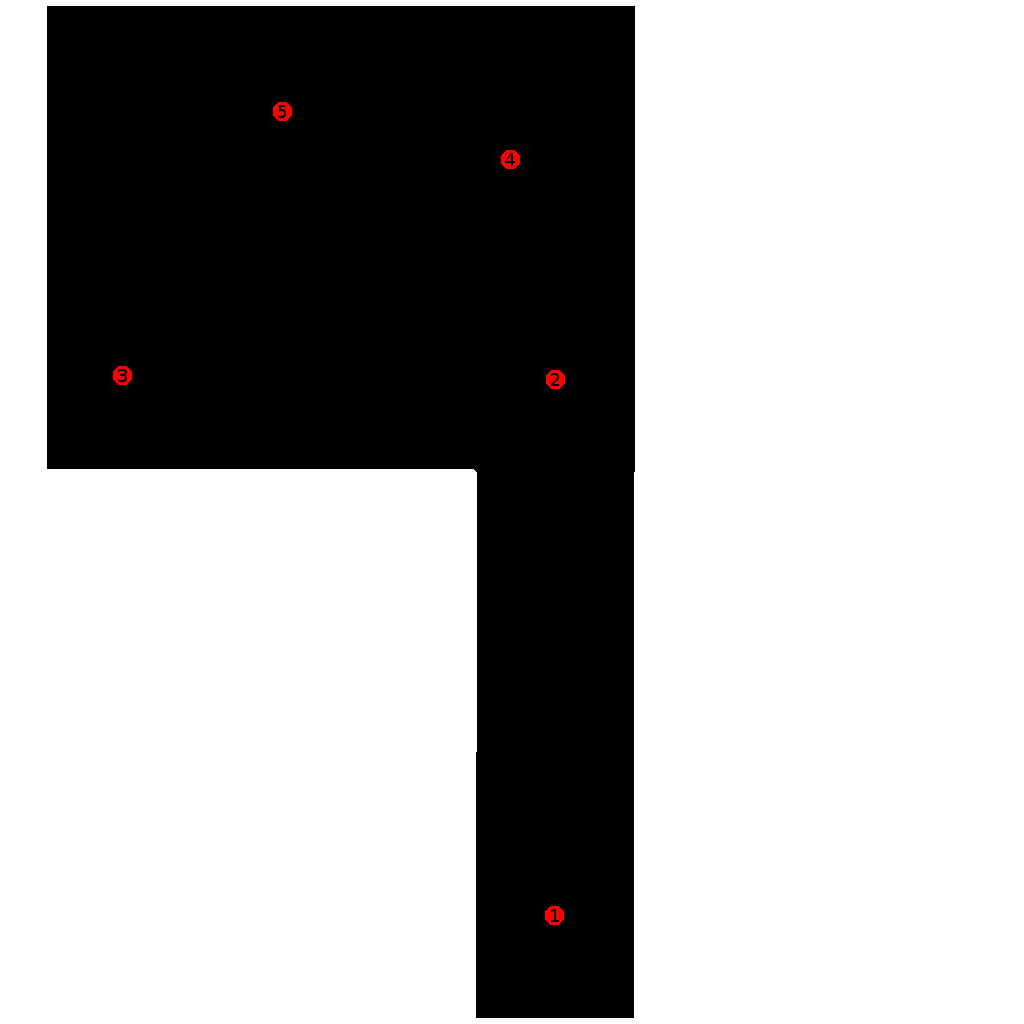
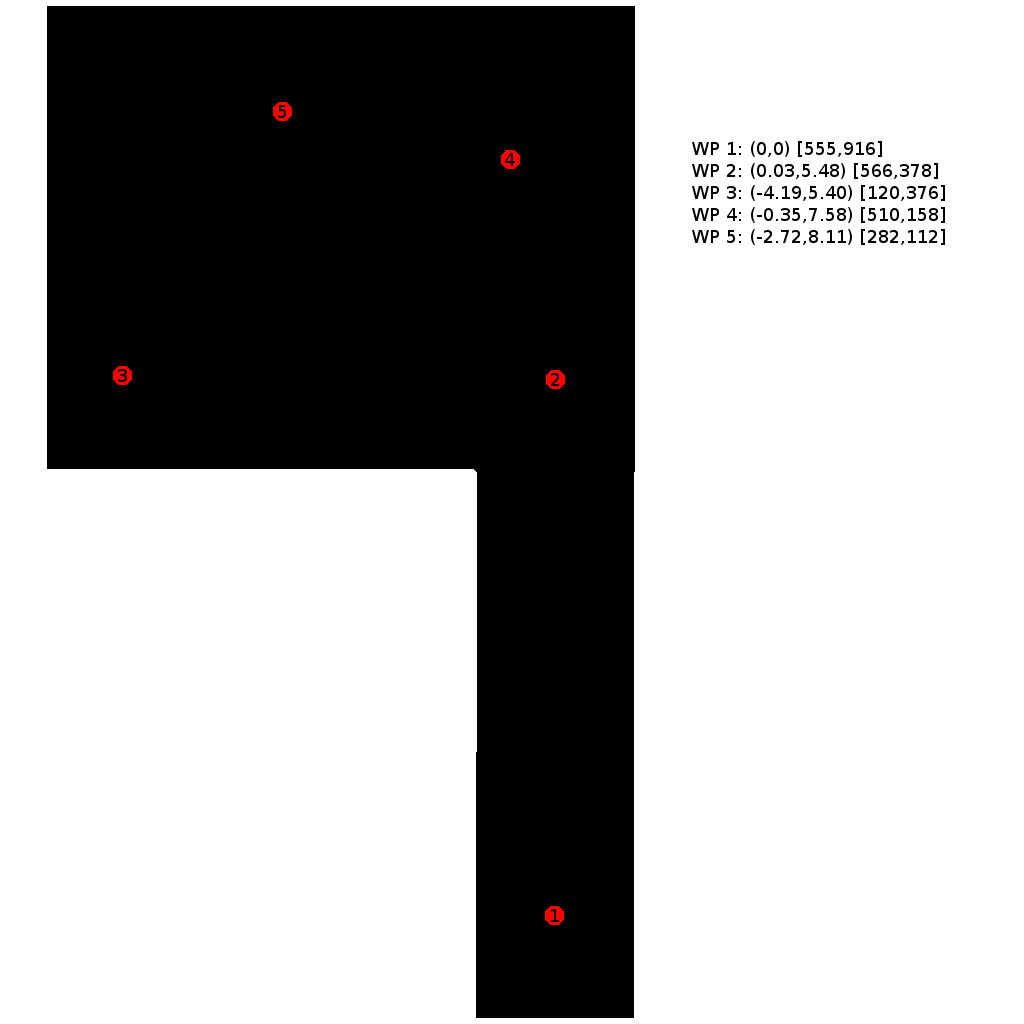
added class-specific log level examples in log4j properties, fixed a bug with waypoint angle generation, created new bot using bob's code that wanders around lab waypoint map, added info to lab map
git-svn-id: https://soar.googlecode.com/svn/trunk@10003 915bf4ee-6d5f-11de-9cf4-4bf9f06b8206

Changed region(s): [[0.6562, 0.125, 0.9375, 0.25]]

diff --git a/soar-robotics/sps/src/org/msoar/sps/control/io/SplinterInput.java b/soar-robotics/sps/src/org/msoar/sps/control/io/SplinterInput.java
@@ -2,34 +2,56 @@ package org.msoar.sps.control.io;
 
 import java.util.Arrays;
 
+import org.apache.log4j.Logger;
+
 import jmat.MathUtil;
 
 import lcmtypes.differential_drive_command_t;
 
 class SplinterInput {
+	private static Logger logger = Logger.getLogger(SplinterInput.class);
+
 	private double[] throttle = { 0, 0 };
 	private double targetYaw = 0;
 	private double targetYawTolerance = 0;
 	private boolean targetYawEnabled = false;
 
+	public String toString() {
+		StringBuilder sb = new StringBuilder();
+		if (targetYawEnabled) {
+			sb.append("--> ");
+			sb.append(targetYaw);
+			sb.append(" (");
+			sb.append(targetYawTolerance);
+			sb.append(") ");
+		}
+		sb.append(Arrays.toString(throttle));
+		return sb.toString();
+	}
 	enum Direction {
 		left, right
 	};
 
-	private SplinterInput() {
-	}
-
 	public SplinterInput(double throttle) {
 		Arrays.fill(this.throttle, throttle);
+		if (logger.isDebugEnabled()) {
+			logger.debug("SplinterInput: " + this);
+		}
 	}
 
 	public SplinterInput(Direction dir, double throttle) {
 		this.throttle[0] = throttle * (dir == Direction.left ? -1 : 1);
 		this.throttle[1] = throttle * (dir == Direction.right ? -1 : 1);
+		if (logger.isDebugEnabled()) {
+			logger.debug("SplinterInput: " + this);
+		}
 	}
 
 	public SplinterInput(double[] throttle) {
 		System.arraycopy(throttle, 0, this.throttle, 0, throttle.length);
+		if (logger.isDebugEnabled()) {
+			logger.debug("SplinterInput: " + this);
+		}
 	}
 
 	public SplinterInput(double yaw, double tolerance, double throttle) {
@@ -37,40 +59,52 @@ class SplinterInput {
 		this.targetYawTolerance = tolerance;
 		this.targetYawEnabled = true;
 		Arrays.fill(this.throttle, throttle);
+		if (logger.isDebugEnabled()) {
+			logger.debug("SplinterInput: " + this);
+		}
 	}
 
-	public SplinterInput copy() {
-		SplinterInput other = new SplinterInput();
-
-		System.arraycopy(throttle, 0, other.throttle, 0, throttle.length);
-		other.targetYaw = targetYaw;
-		other.targetYawTolerance = targetYaw;
-		other.targetYawEnabled = targetYawEnabled;
-
-		return other;
+	public SplinterInput(SplinterInput other) {
+		System.arraycopy(other.throttle, 0, this.throttle, 0, other.throttle.length);
+		this.targetYaw = other.targetYaw;
+		this.targetYawTolerance = other.targetYaw;
+		this.targetYawEnabled = other.targetYawEnabled;
 	}
 
-	public void getDC(differential_drive_command_t dc, double currentYaw) {
+	public void getDC(differential_drive_command_t dc, double currentYawRadians) {
 		dc.left_enabled = true;
 		dc.right_enabled = true;
 
 		if (targetYawEnabled) {
-			double relativeBearingValue = targetYaw - currentYaw;
+			double relativeBearingValue = targetYaw - currentYawRadians;
 			relativeBearingValue = MathUtil.mod2pi(relativeBearingValue);
-
-			if (relativeBearingValue < (0 - targetYawTolerance)) {
+			
+			if (Math.abs(relativeBearingValue) < targetYawTolerance) {
+				logger.trace("within tolerance: " + relativeBearingValue);
+				dc.left = 0;
+				dc.right = 0;
+			} else if (relativeBearingValue < 0) {
+				if (logger.isTraceEnabled()) {
+					logger.trace("right turn: " + relativeBearingValue);
+				}
 				dc.left = throttle[0];
 				dc.right = throttle[1] * -1;
-			} else if (relativeBearingValue > targetYawTolerance) {
+			} else if (relativeBearingValue > 0) {
+				if (logger.isTraceEnabled()) {
+					logger.trace("left turn: " + relativeBearingValue);
+				}
 				dc.left = throttle[0] * -1;
 				dc.right = throttle[1];
 			} else {
-				dc.left = 0;
-				dc.right = 0;
+				throw new IllegalStateException();
 			}
 		} else {
 			dc.left = throttle[0];
 			dc.right = throttle[1];
+		}
+		
+		if (logger.isDebugEnabled()) {
+			logger.debug(String.format("[%b:%f,%b:%f]",dc.left_enabled,dc.left,dc.right_enabled,dc.right));
 		}
 	}
 }

diff --git a/soar-robotics/sps/src/org/msoar/sps/control/io/WaypointIL.java b/soar-robotics/sps/src/org/msoar/sps/control/io/WaypointIL.java
@@ -1,5 +1,9 @@
 package org.msoar.sps.control.io;
 
+import java.util.Arrays;
+
+import org.apache.log4j.Logger;
+
 import jmat.LinAlg;
 import jmat.MathUtil;
 import lcmtypes.pose_t;
@@ -8,6 +12,8 @@ import sml.FloatElement;
 import sml.Identifier;
 
 class WaypointIL {
+	private static Logger logger = Logger.getLogger(WaypointIL.class);
+
 	private double[] xyz = new double[3];
 	private String name;
 	private Identifier waypoints;
@@ -37,13 +43,19 @@ class WaypointIL {
 	void update(pose_t pose) {
 		double distanceValue = LinAlg.distance(pose.pos, xyz, 2);
 		double[] delta = LinAlg.subtract(xyz, pose.pos);
-		double yawValue = Math.atan2(delta[1], delta[0]);
-		double yawValueDeg = Math.toDegrees(yawValue);
-		double relativeBearingValue = yawValue - LinAlg.quatToRollPitchYaw(pose.orientation)[2];
-		relativeBearingValue = MathUtil.mod2pi(relativeBearingValue);
-		double relativeBearingValueDeg = Math.toDegrees(relativeBearingValue);
+		double yawValueRad = Math.atan2(delta[1], delta[0]);
+		double yawValueDeg = Math.toDegrees(yawValueRad);
+		
+		double relativeBearingValueRad = yawValueRad - LinAlg.quatToRollPitchYaw(pose.orientation)[2];
+		relativeBearingValueRad = MathUtil.mod2pi(relativeBearingValueRad);
+		double relativeBearingValueDeg = Math.toDegrees(relativeBearingValueRad);
+		
 		double absRelativeBearingValueDeg = Math.abs(relativeBearingValueDeg);
 
+		if (logger.isTraceEnabled()) {
+			logger.trace(String.format("xyz%s y%1.2f rb%1.2f", Arrays.toString(xyz), yawValueRad, relativeBearingValueRad));
+		}
+		
 		if (waypoint == null) {
 			waypoint = agent.CreateIdWME(waypoints, "waypoint");
 			

diff --git a/soar-robotics/sps/src/org/msoar/sps/control/io/SelfIL.java b/soar-robotics/sps/src/org/msoar/sps/control/io/SelfIL.java
@@ -15,7 +15,7 @@ class SelfIL {
 	private FloatElement yawwme;
 	private long utimeLast = 0;
 	private Agent agent;
-	private double yaw;
+	private double yawRadians;
 
 	SelfIL(Agent agent, Identifier self) {
 		this.agent = agent;
@@ -25,15 +25,15 @@ class SelfIL {
 		xwme = agent.CreateFloatWME(posewme, "x", 0);
 		ywme = agent.CreateFloatWME(posewme, "y", 0);
 		zwme = agent.CreateFloatWME(posewme, "z", 0);
-		yaw = 0;
-		yawwme = agent.CreateFloatWME(posewme, "yaw", yaw);
+		yawRadians = 0;
+		yawwme = agent.CreateFloatWME(posewme, "yaw", 0);
 		
 		Identifier waypoints = agent.CreateIdWME(self, "waypoints");
 		waypointsIL = new WaypointsIL(agent, waypoints);
 	}
 	
-	double getYaw() {
-		return yaw;
+	double getYawRadians() {
+		return yawRadians;
 	}
 
 	void update(pose_t pose) {
@@ -50,19 +50,13 @@ class SelfIL {
 		agent.Update(xwme, pose.pos[0]);
 		agent.Update(ywme, pose.pos[1]);
 		agent.Update(zwme, pose.pos[2]);
-		yaw = toDisplayYaw(pose.orientation);
-		agent.Update(yawwme, yaw);
+		yawRadians = LinAlg.quatToRollPitchYaw(pose.orientation)[2];
+		yawRadians = MathUtil.mod2pi(yawRadians);
+		agent.Update(yawwme, Math.toDegrees(yawRadians));
 		
 		waypointsIL.update(pose);
 	}
 	
-	private double toDisplayYaw(double[] orientation) {
-		double newYaw = LinAlg.quatToRollPitchYaw(orientation)[2];
-		newYaw = MathUtil.mod2pi(newYaw);
-		newYaw = Math.toDegrees(newYaw);
-		return newYaw;
-	}
-
 	WaypointsIL getWaypointsIL() {
 		return waypointsIL;
 	}

diff --git a/soar-robotics/sps/src/org/msoar/sps/control/io/OutputLinkManager.java b/soar-robotics/sps/src/org/msoar/sps/control/io/OutputLinkManager.java
@@ -35,12 +35,12 @@ public class OutputLinkManager implements LCMSubscriber {
 		lcm.subscribe(Names.POSE_CHANNEL, this);
 	}
 	
-	public void getDC(differential_drive_command_t dc, double currentYaw) {
+	public void getDC(differential_drive_command_t dc, double currentYawRadians) {
 		if (command == null) {
 			dc.left_enabled = false;
 			dc.right_enabled = false;
 		} else {
-			command.getDC(dc, currentYaw);
+			command.getDC(dc, currentYawRadians);
 		}
 	}
 	

diff --git a/soar-robotics/sps/src/org/msoar/sps/control/SoarInterface.java b/soar-robotics/sps/src/org/msoar/sps/control/SoarInterface.java
@@ -60,7 +60,7 @@ public class SoarInterface implements Kernel.UpdateEventInterface, Kernel.System
 			dc.right = 0;
 			return;
 		}
-		output.getDC(dc, input.getYaw());
+		output.getDC(dc, input.getYawRadians());
 	}
 
 	private class SoarRunner implements Runnable {

diff --git a/soar-robotics/sps/src/org/msoar/sps/control/io/InputLinkManager.java b/soar-robotics/sps/src/org/msoar/sps/control/io/InputLinkManager.java
@@ -81,8 +81,8 @@ public class InputLinkManager implements LCMSubscriber {
 		}
 	}
 
-	public double getYaw() {
-		return selfIL.getYaw();
+	public double getYawRadians() {
+		return selfIL.getYawRadians();
 	}
 
 	public WaypointsIL getWaypointsIL() {
